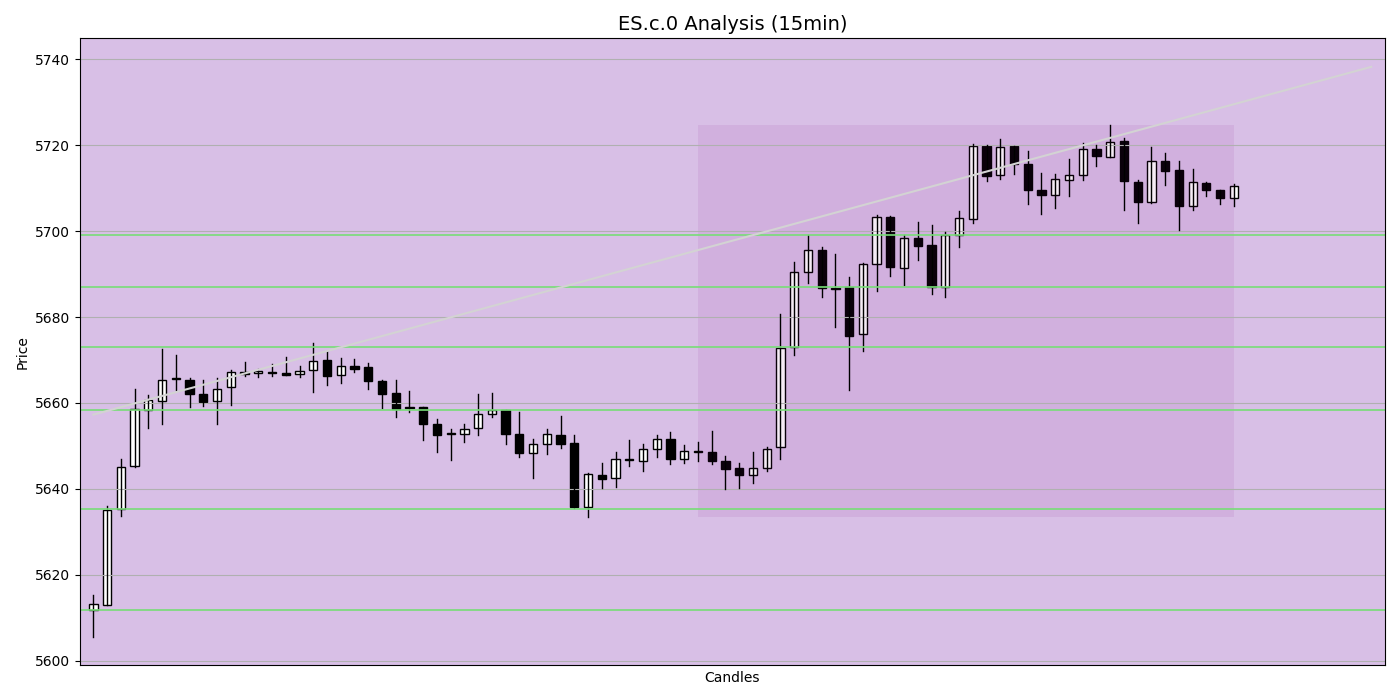
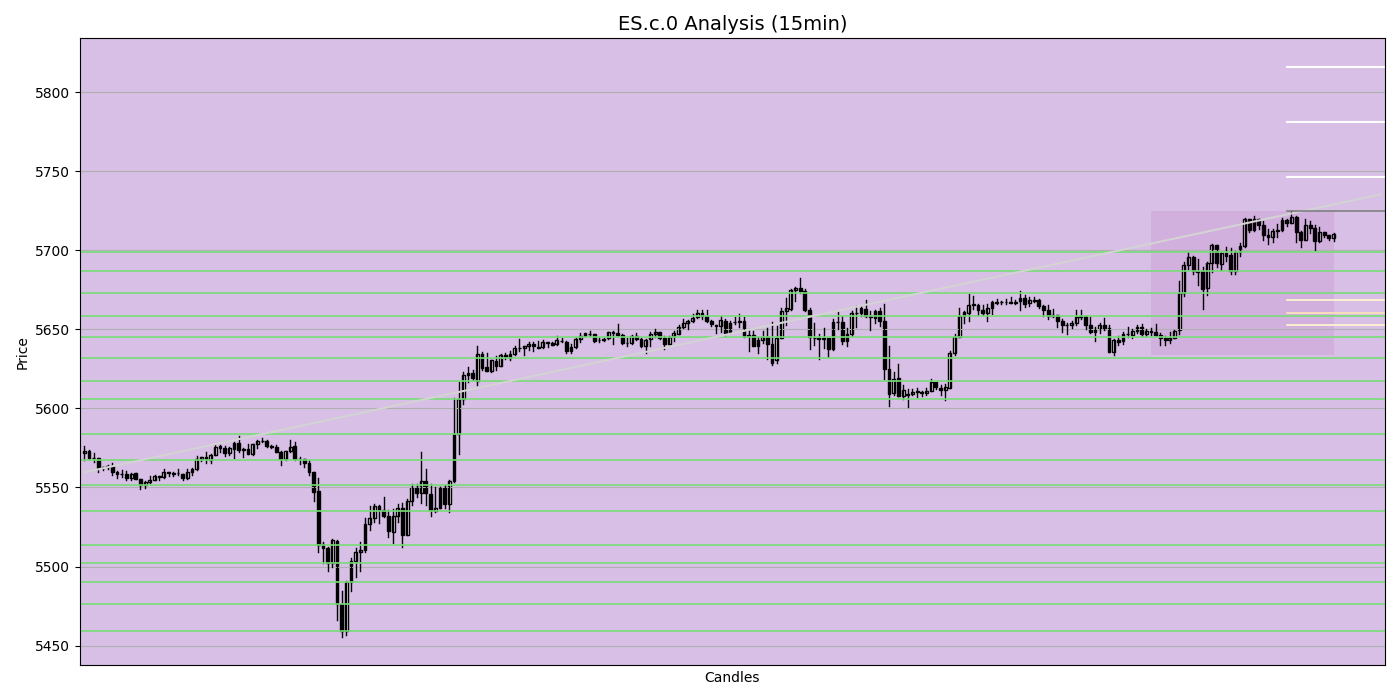
feat: enhance trendline detection, charting, and reporting formats

diff --git a/core/trendline_detector.py b/core/trendline_detector.py
@@ -22,25 +22,55 @@ def fit_trendline(points, kind="support", r_threshold=0.85):
     if len(points) < 3:
         return None
 
-    x = np.array([pt[0] for pt in points])
+    x_raw = np.array([pt[0] for pt in points])
     y = np.array([pt[1] for pt in points])
+    x = x_raw - x_raw[0]
     slope, intercept, r_value, _, _ = linregress(x, y)
 
     if abs(r_value) < r_threshold:
         return None
 
-    return slope, intercept
+    return {
+        "slope": slope,
+        "intercept": intercept,
+        "start_index": x_raw[0],
+        "points": points,
+        "source": kind  # 'support' or 'resistance'
+    }
 
 
-def classify_trendline(df, slope, intercept):
-    latest_idx = len(df) - 1
-    current_price = df["close"].iloc[-1]
-    trend_value = slope * latest_idx + intercept
+def classify_trendline(df, trend_meta, timeframe="1h"):
+    slope = trend_meta["slope"]
+    intercept = trend_meta["intercept"]
+    start_idx = trend_meta["start_index"]
 
-    if current_price >= trend_value:
+    tf_map = {
+        "1min": 1440, "5min": 288, "15min": 96, "30min": 48,
+        "1h": 24, "2h": 12, "3h": 8, "4h": 6, "6h": 4,
+        "12h": 2, "1d": 1,
+    }
+
+    candles_per_day = tf_map.get(timeframe.lower(), 24)
+    lookback = min(3 * candles_per_day, len(df))
+
+    recent_df = df.tail(lookback)
+    closes = recent_df["close"].values
+    x_vals = np.arange(len(df) - lookback, len(df)) - start_idx
+    trend_values = slope * x_vals + intercept
+
+    above_ratio = np.mean(closes > trend_values)
+    below_ratio = np.mean(closes < trend_values)
+
+    if above_ratio > 0.7:
         return "Support"
-    else:
+    elif below_ratio > 0.7:
         return "Resistance"
+    elif trend_meta["source"] == "resistance" and above_ratio > 0.4 and slope > 0:
+        return "Support (flipped from resistance)"
+    elif trend_meta["source"] == "support" and below_ratio > 0.4 and slope < 0:
+        return "Resistance (flipped from support)"
+    else:
+        return "Ambiguous"
 
 
 def detect_trendline(df: pd.DataFrame, timeframe: str = "1h", symbol: str = "ES"):
@@ -53,19 +83,19 @@ def detect_trendline(df: pd.DataFrame, timeframe: str = "1h", symbol: str = "ES"
     vectors = {}
 
     if support_trend:
-        role = classify_trendline(df, *support_trend)
-        if role == "Support":
+        role = classify_trendline(df, support_trend, timeframe=timeframe)
+        if "Support" in role:
             vectors["Support"] = support_trend
-            levels = [f"{lvl:.2f}" for _, lvl in pivot_lows]
-            messages.append(f"🟩 Support trendline detected ({timeframe})")
+            levels = [f"{lvl:.2f}" for _, lvl in support_trend["points"]]
+            messages.append(f"🟩 {role} trendline detected ({timeframe})")
             messages.append(f"    Touch points: {', '.join(levels)}")
 
     if resistance_trend:
-        role = classify_trendline(df, *resistance_trend)
-        if role == "Resistance":
+        role = classify_trendline(df, resistance_trend, timeframe=timeframe)
+        if "Resistance" in role or "flipped" in role:
             vectors["Resistance"] = resistance_trend
-            levels = [f"{lvl:.2f}" for _, lvl in pivot_highs]
-            messages.append(f"🟥 Resistance trendline detected ({timeframe})")
+            levels = [f"{lvl:.2f}" for _, lvl in resistance_trend["points"]]
+            messages.append(f"🟥 {role} trendline detected ({timeframe})")
             messages.append(f"    Touch points: {', '.join(levels)}")
 
     if not messages:

diff --git a/core/visualizer.py b/core/visualizer.py
@@ -6,7 +6,7 @@ import matplotlib.patches as patches
 
 
 def plot_full_analysis(df, symbol, timeframe, support_levels, resistance_levels, trendlines, fib_data, range_data):
-    df = df.copy().tail(150)
+    df = df.copy().tail(300)
     df.index.name = "Date"
 
     fig, ax = plt.subplots(figsize=(14, 7))
@@ -32,9 +32,15 @@ def plot_full_analysis(df, symbol, timeframe, support_levels, resistance_levels,
         ax.axhline(y=level, color="#77dd77", linestyle="-", linewidth=1.2)
 
     # ➖ Trendlines (light grey solid)
-    for role, (slope, intercept) in trendlines.items():
+    for role, trend in trendlines.items():
+        slope = trend["slope"]
+        intercept = trend["intercept"]
+        start_idx = trend["start_index"]
+
         x_vals = np.arange(len(df) + 10)
-        y_vals = slope * x_vals + intercept
+        x_shifted = x_vals - start_idx
+        y_vals = slope * x_shifted + intercept
+
         ax.plot(x_vals, y_vals, color="lightgrey", linestyle="-", linewidth=1.5)
 
     # 🟪 IRZ Fib levels
